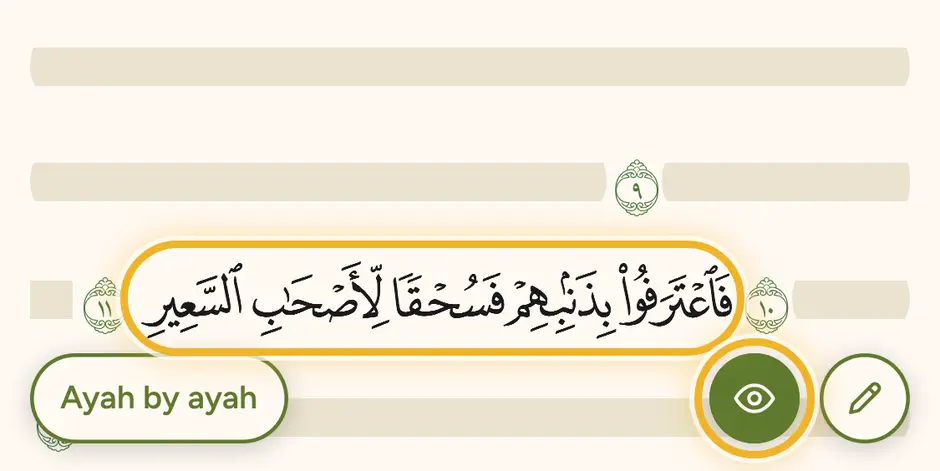
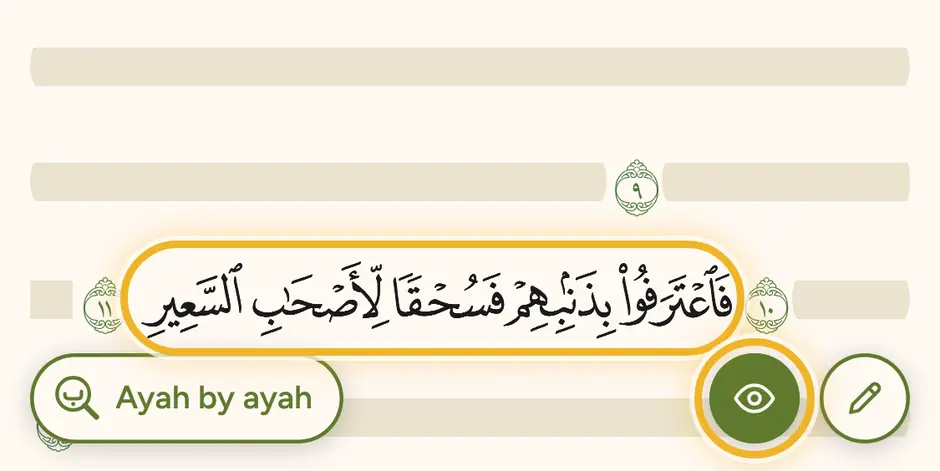
Magnifying glass on the ayah by ayah button
The "Ayah by ayah" pill starts with a magnifying glass over the letter
ba, since the mode zooms in on the ayahs. Under 360px wide only the glass
shows, in a round button, which leaves room for the page turns.

Claude-Session: https://claude.ai/code/session_01Co3JXumQV2vF34bDNqrmHh

Changed region(s): [[0.0617, 0.7431, 0.3702, 0.9512]]

diff --git a/src/index.css b/src/index.css
@@ -795,10 +795,6 @@ select, input[type='number'] {
   transition: opacity var(--motion-calm) ease;
 }
 .page-turns.faded-out { opacity: 0; pointer-events: none; }
-/* On a narrow phone, centred between the "Ayah by ayah" pill and the hide button, so neither touches them. */
-@media (max-width: 359px) {
-  .page-turns { transform: translateX(calc(-50% + var(--space-3))); }
-}
 .mushaf:has(.m-foot) .page-turns { bottom: calc(var(--float-button) + 2 * var(--space-3) + env(safe-area-inset-bottom)); }
 .page-turns button {
   width: var(--float-button);
@@ -812,7 +808,8 @@ select, input[type='number'] {
 }
 .page-turns svg { width: var(--float-icon); height: var(--float-icon); fill: none; stroke: currentColor; stroke-width: 2.4; stroke-linecap: round; stroke-linejoin: round; }
 
-/* Ayah by ayah: off, an outlined pill saying "Ayah by ayah" in the bottom left corner, so it needs no guessing. On,
+/* Ayah by ayah: off, an outlined pill in the bottom left corner: a magnifying glass on the letter ب, and its name,
+   so it needs no guessing (on a narrow phone, only the glass, in a round button, leaving room for ‹ ›). On,
    "+ ayah", "2. half" and a round exit button in one row across the bottom; "+ ayah" also holds the count. The exit
    is red, like the pen's Clear page: it leaves the mode. Hide and the pen are put away meanwhile. They fade with the
    hide button. */
@@ -821,14 +818,25 @@ select, input[type='number'] {
   left: var(--space-3);
   bottom: calc(var(--space-3) + env(safe-area-inset-bottom));
   height: var(--float-button);
-  padding-inline: var(--space-3);
+  padding-inline: 10px var(--space-3);
   border-radius: 999px;
+  display: flex;
+  align-items: center;
+  gap: 6px;
   background: var(--mushaf-paper);
   color: var(--mushaf-olive);
   box-shadow: var(--float-shadow), inset 0 0 0 1.5px var(--mushaf-olive);
   font-size: var(--mushaf-head-size);
   white-space: nowrap;
   transition: opacity var(--motion-calm) ease;
+}
+.step-toggle svg { flex: none; width: var(--float-icon); height: var(--float-icon); fill: none; stroke: currentColor; stroke-width: 1.9; stroke-linecap: round; stroke-linejoin: round; }
+.step-toggle .handle { stroke-width: 2.8; }
+.step-toggle .letter { stroke-width: 1.8; }
+.step-toggle .dot { fill: currentColor; stroke: none; }
+@media (max-width: 359px) {
+  .step-toggle { width: var(--float-button); padding: 0; justify-content: center; }
+  .step-toggle-label { display: none; }
 }
 .step-exit {
   position: relative;

diff --git a/src/MushafPage.tsx b/src/MushafPage.tsx
@@ -596,8 +596,9 @@ export default function MushafPage({
         </div>
       )}
 
-      {/* Ayah by ayah: off, a pill named for it in the bottom left corner; on, one row of "+ ayah" (the count on its
-          left), the halves and a red × to leave it. */}
+      {/* Ayah by ayah: off, a pill in the bottom left corner with a magnifying glass on an Arabic letter (it zooms in
+          on the ayahs) and its name; on, one row of "+ ayah" (the count on its left), the halves and a red × to leave
+          it. */}
       {pageSteps ? (
         <div className={`step-tools ${buttonVisible ? '' : 'faded-out'}`}>
           <button
@@ -636,9 +637,16 @@ export default function MushafPage({
             onSteps(FRESH_STEPS)
             tipOnce('ayah-by-ayah')
           }}
+          aria-label="Ayah by ayah"
           tabIndex={buttonVisible ? 0 : -1}
         >
-          Ayah by ayah
+          <svg viewBox="0 0 24 24" aria-hidden="true">
+            <circle cx="9.6" cy="9.6" r="8.6" />
+            <path className="handle" d="M15.8 15.8L22 22" />
+            <path className="letter" d="M14 8.2v2q0 2-2 2H7.2q-2 0-2-2V9.4" />
+            <circle className="dot" cx="9.6" cy="15" r="1.1" />
+          </svg>
+          <span className="step-toggle-label">Ayah by ayah</span>
         </button>
       )}
 

diff --git a/PLAN.md b/PLAN.md
@@ -52,6 +52,7 @@ Changes from my note cards. I rate each Surah myself (★ weak, ★½ last page 
 
 31. ✅ **Tips say only what their picture shows** (builder's request): each tip's words name only what is in its picture, and every gold ring is something the words name. Rabt and Muraja'a show the start triangle with the page's buttons below it ("Green triangles like this one mark where today's Rabt starts and ends. If the buttons fade, tap the page."), on a short screen so both fit. Today's Hifz rings "+ ayah", "2. half" and ×; ayah by ayah rings × too; the pen rings ‹ and ›; hide rings the ayah tapped to show it; rating rings the choices. Day done no longer mentions History, Rate no longer mentions the Surahs screen, and the History tip is about backing up (its picture). Crops no longer cut a line or button in half, and the ring round Undo hugs the word.
 32. ✅ **A named "Ayah by ayah" and a red exit** (builder's request): the ayah by ayah toggle in the bottom left corner is an outlined pill that says "Ayah by ayah" instead of an icon of lines, so it needs no guessing. The × that leaves ayah by ayah is red, like the pen's Clear page, since it leaves the mode. On a phone narrower than 360px, ‹ › (with the pen on) sit centred between the pill and the hide button so nothing touches. Intro and tip pictures retaken.
+33. ✅ **A magnifying glass for ayah by ayah** (builder's request): the "Ayah by ayah" pill starts with a magnifying glass over the letter ب, since the mode zooms in on the ayahs. On a phone narrower than 360px only the glass shows, in a round button like hide and the pen, which leaves room for ‹ › (replacing step 32's shift of ‹ ›). Hifz still opens in ayah by ayah, with its own tip.
 ## How we'll know it works
 
 1. Rate al-Mulk ★★★ and al-Qalam ★: the Surahs screen shows al-Mulk under strong and al-Qalam under weak, and both are still there after a Backup and restore.
